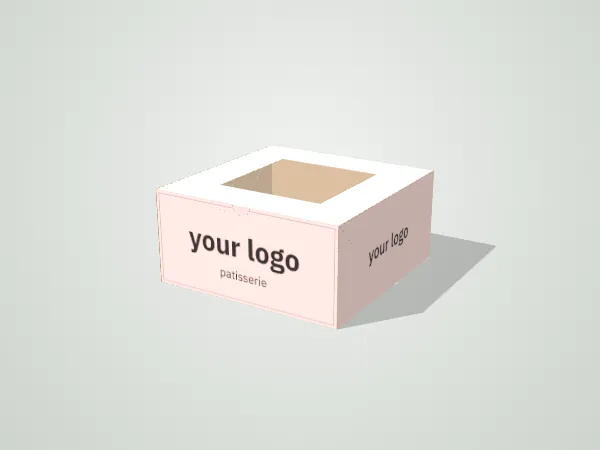
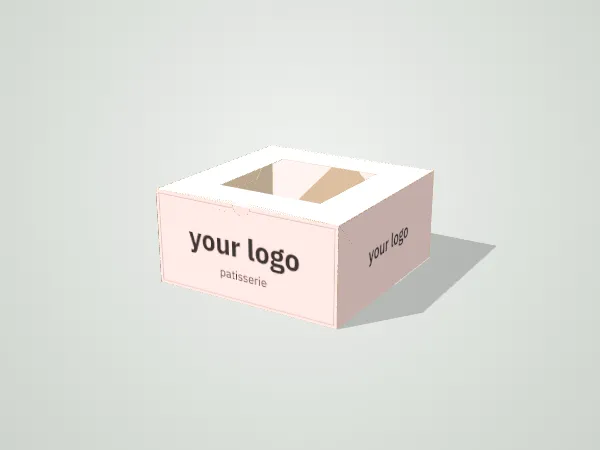
Bakery boxes: five closures — tuck, side-lock, tongue lock, front-opening hood with tab-and-slit corners, webbed gusset corners

Changed region(s): [[0.45, 0.3422, 0.57, 0.4667], [0.6, 0.3733, 0.63, 0.4044]]

diff --git a/index.html b/index.html
@@ -571,10 +571,15 @@ html.locked body>*:not(#auth):not(script){visibility:hidden}
         </div>
       </div>
       <div data-for="bakery" class="sub" style="padding-left:0">
-        <label class="f">Opening<select id="bkStyle"><option value="tuck">Lid with a tuck, fixed front wall</option><option value="front">Lid + front wall open together</option></select></label>
+        <label class="f">Closure / lock<select id="bkLock">
+          <option value="tuck">Tuck lid + thumb notch</option>
+          <option value="side">Side-lock: lid flaps lock into wall slits</option>
+          <option value="tongue">Tongue lock: front flap into a slot</option>
+          <option value="hood">Front-opening hood, tab-and-slit corners</option>
+          <option value="gusset">Webbed (gusset) corners + tuck lid</option></select></label>
         <label class="chk"><input id="bkWin" type="checkbox"> Window in the lid</label>
         <label class="f">Window margin from the lid edges, mm<input id="bkWm" type="number" min="8" max="150" step="1"></label>
-        <p class="note">One piece, no glue needed: the corner ears fold inside the side walls, the lid tuck slides behind the front wall (thumb notch), the lid side flaps tuck inside. Use food-safe board; for a window, glue clear film behind it.</p>
+        <p class="note" id="bkNote"></p>
       </div>
       <div data-for="mailer" class="sub" style="padding-left:0">
         <p class="note">Double side walls, dust ears and locking tabs, no glue. Usually made from E-flute corrugated. Keep the height below the width.</p>
@@ -851,17 +856,17 @@ const TPL = [
   {id:'lidbase',type:'lidbase', cat:'box', name:'Lid and base',          set:{}},
   {id:'mailer',type:'mailer', cat:'box', name:'Mailer box', set:{}},
   {id:'drawer',type:'drawer', cat:'box', name:'Drawer box with sleeve', set:{dbl:true}},
-  {id:'bk_cake',  type:'bakery', cat:'box', name:'Cake box',                 set:{L:200, W:200, H:110, window:false, bkWm:22, bg:'#bcd8e2', ink:'#ffffff', title:'YOUR LOGO', sub:'Cake box'}},
-  {id:'bk_cakew', type:'bakery', cat:'box', name:'Cake box with window',     set:{L:250, W:250, H:120, window:true,  bkWm:55, bg:'#f3d6d3', ink:'#2b2320', title:'your logo', sub:'patisserie'}},
-  {id:'bk_cup6',  type:'bakery', cat:'box', name:'Cupcake box 6, window',    set:{L:250, W:170, H:80,  window:true,  bkWm:38, bg:'#f4cfcf', ink:'#1b1b1b', title:'your logo', sub:'food cake'}},
-  {id:'bk_cup9',  type:'bakery', cat:'box', name:'Cupcake box 9',            set:{L:250, W:250, H:85,  window:false, bkWm:22, bg:'#bcd8e2', ink:'#ffffff', title:'YOUR LOGO', sub:'Cake box'}},
-  {id:'bk_pastry',type:'bakery', cat:'box', name:'Pastry box with window',   set:{L:180, W:120, H:60,  window:true,  bkWm:28, bg:'#f6efe2', ink:'#6b4a2b', title:'BAKERY', sub:'fresh every morning'}},
-  {id:'bk_front', type:'bakery', cat:'box', name:'Front-opening cake box',   set:{L:180, W:180, H:130, bkStyle:'front', window:false, bkWm:22, bg:'#f6f0e3', ink:'#1d1d1b', showText:false, title:'cake box', sub:''},
+  {id:'bk_cake',  type:'bakery', cat:'box', name:'Cake box',                 set:{L:200, W:200, H:110, bkLock:'tuck', window:false, bkWm:22, bg:'#bcd8e2', ink:'#ffffff', title:'YOUR LOGO', sub:'Cake box'}},
+  {id:'bk_cakew', type:'bakery', cat:'box', name:'Cake box with window',     set:{L:250, W:250, H:120, bkLock:'gusset', window:true,  bkWm:55, bg:'#f3d6d3', ink:'#2b2320', title:'your logo', sub:'patisserie'}},
+  {id:'bk_cup6',  type:'bakery', cat:'box', name:'Cupcake box 6, window',    set:{L:250, W:170, H:80,  bkLock:'side', window:true,  bkWm:38, bg:'#f4cfcf', ink:'#1b1b1b', title:'your logo', sub:'food cake'}},
+  {id:'bk_cup9',  type:'bakery', cat:'box', name:'Cupcake box 9',            set:{L:250, W:250, H:85,  bkLock:'tuck', window:false, bkWm:22, bg:'#bcd8e2', ink:'#ffffff', title:'YOUR LOGO', sub:'Cake box'}},
+  {id:'bk_pastry',type:'bakery', cat:'box', name:'Pastry box with window',   set:{L:180, W:120, H:60,  bkLock:'tongue', window:true,  bkWm:28, bg:'#f6efe2', ink:'#6b4a2b', title:'BAKERY', sub:'fresh every morning'}},
+  {id:'bk_front', type:'bakery', cat:'box', name:'Front-opening cake box',   set:{L:180, W:180, H:130, bkLock:'hood', window:false, bkWm:22, bg:'#f6f0e3', ink:'#1d1d1b', showText:false, title:'cake box', sub:''},
     els:[{kind:'icon', icon:'cake', face:'top', x:.5, y:.45, size:48}, {kind:'text', text:'cake box', font:'400|Montserrat', face:'front', x:.75, y:.78, size:13},
          {kind:'icon', icon:'cake', face:'front', x:.5, y:.42, size:48}, {kind:'icon', icon:'food', face:'back', x:.5, y:.85, size:9, color:'#000000'}]},
-  {id:'bk_heart', type:'bakery', cat:'box', name:'Bento cake box, heart',    set:{L:150, W:150, H:110, bkStyle:'front', window:false, bkWm:22, bg:'#f6f0e3', ink:'#1d1d1b', showText:false, title:'cake box', sub:''},
+  {id:'bk_heart', type:'bakery', cat:'box', name:'Bento cake box, heart',    set:{L:150, W:150, H:110, bkLock:'hood', window:false, bkWm:22, bg:'#f6f0e3', ink:'#1d1d1b', showText:false, title:'cake box', sub:''},
     els:[{kind:'text', text:'cake box', font:'400|Montserrat', face:'top', x:.5, y:.5, size:12}, {kind:'icon', icon:'heart', face:'front', x:.5, y:.45, size:40}]},
-  {id:'bk_macaron',type:'bakery',cat:'box', name:'Macaron / cookie box',     set:{L:200, W:90,  H:45,  window:true,  bkWm:20, bg:'#e7dcf3', ink:'#4a3366', title:'macarons', sub:'handmade · 12 pcs'}},
+  {id:'bk_macaron',type:'bakery',cat:'box', name:'Macaron / cookie box',     set:{L:200, W:90,  H:45,  bkLock:'tuck', window:true,  bkWm:20, bg:'#e7dcf3', ink:'#4a3366', title:'macarons', sub:'handmade · 12 pcs'}},
   {id:'l_wine',  type:'label', cat:'label', name:'Wine bottle label',  set:{...LBL_BASE, vessel:'wine', L:90, W:75, H:100, lblY:55, cornerR:0}},
   {id:'l_beer',  type:'label', cat:'label', name:'Beer bottle wrap label', set:{...LBL_BASE, vessel:'beer', wrap:true, W:60, H:75, lblY:24}},
   {id:'l_jar',   type:'label', cat:'label', name:'Jar wrap label',     set:{...LBL_BASE, vessel:'jar', wrap:true, W:80, H:60, lblY:12}},
@@ -905,11 +910,11 @@ const TPL_DESC = {
   lidbase:'Two parts: base and lid. Gift packaging.',
   mailer:'Self-locking with a hinged lid, no glue. For shipping and subscriptions.',
   bk_cake:'One-piece cake box: hinged lid with a tuck, thumb notch, corner ears. Food-safe board.',
-  bk_cakew:'Cake box with a window in the lid — glue a clear film behind it.',
-  bk_cup6:'For 6 cupcakes or pastries, window in the lid. Add an insert with holes inside.',
+  bk_cakew:'Webbed corners — no gaps, cream stays in. Window in the lid with clear film.',
+  bk_cup6:'For 6 cupcakes, window in the lid. Side-lock: the lid stays shut in delivery.',
   bk_cup9:'Square box for 9 cupcakes with a hinged tuck lid.',
-  bk_pastry:'Small box for 2–4 pastries or a slice of cake, with a window.',
-  bk_front:'The lid and the whole front wall swing up — the cake slides in from the front, nothing to lift over. Line-art print.',
+  bk_pastry:'2–4 pastries, window. Tongue lock on the front — tamper-evident for takeaway.',
+  bk_front:'Hood lid (top, front and sides) swings up — the cake slides in from the front. No glue: tab-and-slit corners, front lip with wings.',
   bk_heart:'Small front-opening box for a bento cake or a slice, with a heart.',
   bk_macaron:'Long low box for macarons or cookies, with a window.',
   drawer:'A tray slides out of a sleeve, like a matchbox.',
@@ -974,7 +979,7 @@ const VPRESETS = {
   ptube:[['Ø 50',50],['Ø 75',75],['Ø 100',100]],
 };
 const DEFAULTS = { type:'tube', tpl:'rte', L:70, W:70, H:110, ...TUBE_BASE, tuck:15, glue:14, dust:0,
-  winW:40, winH:50, winY:55, bkWm:22, bkStyle:'tuck', hangH:30, tab:15, lidH:30, gap:2, pull:40, dbl:false, lidOpen:0, hdr:0,
+  winW:40, winH:50, winY:55, bkWm:22, bkStyle:'tuck', bkLock:'tuck', hangH:30, tab:15, lidH:30, gap:2, pull:40, dbl:false, lidOpen:0, hdr:0,
   ...LBL_BASE, ...CARD_BASE, cupKind:'cup', cupLid:false, ...CUP_BASE, base:'', tplOrig:'',
   bg:'#2f5d50', ink:'#f3efe4', showText:true, title:'FOREST TEA', sub:'blend No.4 · 100 g',
   inside:'kraft', insideBg:'#f4efe6', finish:'matte', showLines:false, els:[], pid:null, pname:'',
@@ -991,9 +996,9 @@ const FACE_NAMES = {drawer:'Drawer base', pull:'Drawer end', front:'Front', back
 const NUM = ['bkWm','gradAng','patScale','cornerR','vents','ventD','tearY','tearW','thick','sheetW','sheetH','grip','impGap','qty','L','W','H','tuck','glue','dust','winW','winH','winY','hangH','tab','lidH','gap','pull','lidOpen','lInt','lAng','shadow','hdr','overlap','lblY','holeD','vBody','vNeck','cupOv','cupRim','cupBot','tagC','envF'];
 const ALIAS = {tab2:'tab', tab3:'tab', dgap:'gap', dbl2:'dbl', holeD2:'holeD', bkWin:'window'};
 const DIM_LABELS = {pouch:['Width','Gusset depth','Height'], label:['Label width','Container Ø','Label height'], cup:['Rim Ø (top)','Base Ø','Height'], card:['Width (folded)',null,'Height']};
-const SEL = ['bkStyle','topClose','topLid','botClose','botLid','bg','ink','title','sub','inside','insideBg','finish','light','scBgColor','mat','dimMode','unit','bleed','safe','method','sides','sheetFmt','white','grain','bgMode','bg2','pattern','vessel','lshape','place','vglass','vcap','vfill','cupKind','fold'];
+const SEL = ['bkLock','topClose','topLid','botClose','botLid','bg','ink','title','sub','inside','insideBg','finish','light','scBgColor','mat','dimMode','unit','bleed','safe','method','sides','sheetFmt','white','grain','bgMode','bg2','pattern','vessel','lshape','place','vglass','vcap','vfill','cupKind','fold'];
 const CHK = ['notch','window','hang','showText','showLines','dbl','tear','wrap','cupLid'];
-const STRUCT = ['bkStyle','bkWm','type','tpl','L','W','H','mat','thick','dimMode','cornerR','vents','ventD','tear','tearY','tearW',...Object.keys(TUBE_BASE),'tuck','glue','dust','winW','winH','winY','hangH','tab','lidH','gap','pull','dbl','hdr',...Object.keys(LBL_BASE),...Object.keys(CARD_BASE),'cupKind','cupLid',...Object.keys(CUP_BASE)];
+const STRUCT = ['bkLock','bkStyle','bkWm','type','tpl','L','W','H','mat','thick','dimMode','cornerR','vents','ventD','tear','tearY','tearW',...Object.keys(TUBE_BASE),'tuck','glue','dust','winW','winH','winY','hangH','tab','lidH','gap','pull','dbl','hdr',...Object.keys(LBL_BASE),...Object.keys(CARD_BASE),'cupKind','cupLid',...Object.keys(CUP_BASE)];
 
 const store = {
   get(k,d){ try { const v = localStorage.getItem(k); return v ? JSON.parse(v) : d; } catch { return d; } },
@@ -1167,52 +1172,88 @@ function buildLidBase(P,B){
   B.N.find(n=>n.id==='lbase').flat = {p:[-L/2-Ll/2 - (L+2*H)/2 - (Ll+2*Hl)/2 - 20, Hl+.6, -W/2+Wl/2], q:Q_LID};
   return {};
 }
-// bakery / cake box: one piece, single walls with corner ears, thumb notch on the front wall,
-// hinged lid with a rounded tuck and side flaps that tuck inside, optional window in the lid
+// bakery / cake box, one piece, five closures (P.bkLock):
+//  tuck   — corner ears inside the sides, lid tuck behind the front wall, thumb notch (most common, cheapest)
+//  side   — as tuck, but the lid side flaps end in a tongue that locks into a slit in each side wall (stays shut in delivery)
+//  tongue — lid front flap goes OUTSIDE the front wall, its tongue pushes into a slot (tamper-evident, takeaway)
+//  hood   — front-opening: lid = top + front + sides, base corners tab-and-slit (tall cakes slide in) → buildBakeryFront
+//  gusset — webbed corners (no gaps — cream and crumbs stay in, pops up from flat), tuck lid
 function buildBakery(P,B){
-  if (P.bkStyle==='front') return buildBakeryFront(P,B);
-  const L=P.L, W=P.W, H=Math.min(P.H, W*1.2);
-  const e = Math.min(W*.42, Math.max(H*.85, 20));                 // corner ears on the front/back walls, glued or tucked inside the sides
+  const lock = P.bkLock || (P.bkStyle==='front' ? 'hood' : 'tuck');
+  if (lock==='hood') return buildBakeryFront(P,B);
+  const L=P.L, W=P.W, H=Math.min(P.H, W*1.2), slitV = (xc,yc,len) => [[xc-.6,yc-len/2],[xc+.6,yc-len/2],[xc+.6,yc+len/2],[xc-.6,yc+len/2]], slitH = (xc,yc,len) => [[xc-len/2,yc-.6],[xc+len/2,yc-.6],[xc+len/2,yc+.6],[xc-len/2,yc+.6]];
+  const e = Math.min(W*.42, Math.max(H*.85, 20)), tp = Math.min(6, H*.25), g = lock==='tongue' ? 1.5 : 0;
+  let d = clamp(H-6, 8, 40); const stw = clamp(W*.3, 10, 40), stl = 7;
+  if (lock==='side') d = clamp(Math.min(d, H - stl - 8), 6, 40);
+  const fh = clamp(H*.4, 15, 40), ttw = clamp(L*.25, 15, 50), ttl = 10;
   B.add('base',null,[0,0],null,0,null,rect(0,0,L,W),{final:{p:[0,0,0],q:Q_UP}});
-  const nr = Math.min(12, L*.08, H*.3), front = [[0,0],[0,-H],[L/2-nr,-H], ...arc(L/2,-H,nr,PI,0,16).slice(1,-1), [L/2+nr,-H],[L,-H],[L,0]];
-  B.add('front','base',[0,0],'x',90*DEG,[0,.25],front);
-  B.add('earFL','front',[0,0],'y',-92*DEG,[.2,.38],sideTab(0,0,-H,-e,Math.min(6,H*.25)));
-  B.add('earFR','front',[L,0],'y',92*DEG,[.2,.38],sideTab(L,0,-H,e,Math.min(6,H*.25)));
+  const nr = Math.min(12, L*.08, H*.3), notch = lock!=='tongue';
+  const front = notch ? [[0,0],[0,-H],[L/2-nr,-H], ...arc(L/2,-H,nr,PI,0,16).slice(1,-1), [L/2+nr,-H],[L,-H],[L,0]] : rect(0,-H,L,0);
+  B.add('front','base',[0,0],'x',90*DEG,[0,.25],front,{holes: lock==='tongue' ? [slitH(L/2, -H+fh+.8, ttw+2)] : []});
   B.add('back','base',[0,W],'x',-90*DEG,[0,.25],rect(0,W,L,W+H));
-  B.add('earBL','back',[0,W],'y',-92*DEG,[.2,.38],sideTab(0,W,W+H,-e,Math.min(6,H*.25)));
-  B.add('earBR','back',[L,W],'y',92*DEG,[.2,.38],sideTab(L,W,W+H,e,Math.min(6,H*.25)));
-  B.add('sideL','base',[0,0],'y',-90*DEG,[.3,.5],rect(-H,0,0,W));
-  B.add('sideR','base',[L,0],'y',90*DEG,[.3,.5],rect(L,0,L+H,W));
-  // lid: hinged on the back wall, rounded tuck behind the front wall, side flaps inside the side walls
-  const y1 = W+H, y2 = 2*W+H, d = clamp(H-6, 8, 40), tk = clamp(H*.45, 12, 35), m = clamp(+P.bkWm||22, 8, Math.min(L,W)/2-8);
+  const sideHoles = x => lock==='side' ? [slitV(x, W/2, stw+2)] : [];
+  B.add('sideL','base',[0,0],'y',-90*DEG,[lock==='gusset'?0:.3, lock==='gusset'?.25:.5],rect(-H,0,0,W),{holes:sideHoles(-(H-d-1.2))});
+  B.add('sideR','base',[L,0],'y',90*DEG,[lock==='gusset'?0:.3, lock==='gusset'?.25:.5],rect(L,0,L+H,W),{holes:sideHoles(L+H-d-1.2)});
+  if (lock==='gusset'){
+    // webbed corner: one triangle on the end wall, one on the side wall, diagonal crease between them; folds flat inside the end wall
+    const st = [0,.25];
+    B.add('gFLa','front',[0,0],'y',-175*DEG,st,[[0,0],[0,-H],[-H,-H]]);   B.add('gFLb','sideL',[0,0],'x',92*DEG,st,[[0,0],[-H,-H],[-H,0]]);
+    B.add('gFRa','front',[L,0],'y',175*DEG,st,[[L,0],[L+H,-H],[L,-H]]);   B.add('gFRb','sideR',[L,0],'x',92*DEG,st,[[L,0],[L+H,0],[L+H,-H]]);
+    B.add('gBLa','back',[0,W],'y',-175*DEG,st,[[0,W],[-H,W+H],[0,W+H]]);  B.add('gBLb','sideL',[0,W],'x',-92*DEG,st,[[0,W],[-H,W],[-H,W+H]]);
+    B.add('gBRa','back',[L,W],'y',175*DEG,st,[[L,W],[L,W+H],[L+H,W+H]]); B.add('gBRb','sideR',[L,W],'x',-92*DEG,st,[[L,W],[L+H,W+H],[L+H,W]]);
+  } else {
+    B.add('earFL','front',[0,0],'y',-92*DEG,[.2,.38],sideTab(0,0,-H,-e,tp));
+    B.add('earFR','front',[L,0],'y',92*DEG,[.2,.38],sideTab(L,0,-H,e,tp));
+    B.add('earBL','back',[0,W],'y',-92*DEG,[.2,.38],sideTab(0,W,W+H,-e,tp));
+    B.add('earBR','back',[L,W],'y',92*DEG,[.2,.38],sideTab(L,W,W+H,e,tp));
+  }
+  // lid
+  const y1 = W+H, y2 = 2*W+H+g, tk = clamp(H*.45, 12, 35), m = clamp(+P.bkWm||22, 8, Math.min(L,W)/2-8);
   const win = P.window ? [[[m,y1+m],[L-m,y1+m],[L-m,y2-m],[m,y2-m]]] : [];
   B.add('lid','back',[0,y1],'x',-90*DEG,[.72,.97],rect(0,y1,L,y2),{holes:win});
-  B.add('lidTuck','lid',[0,y2],'x',-92*DEG,[.66,.84],tuckPoly(0,y2,L,tk,1));
-  B.add('lidDL','lid',[0,y1],'y',-92*DEG,[.66,.82],sideTab(0,y1+1.5,y2-1.5,-d,Math.min(d,W*.2)));
-  B.add('lidDR','lid',[L,y1],'y',92*DEG,[.66,.82],sideTab(L,y1+1.5,y2-1.5,d,Math.min(d,W*.2)));
-  B.face('bottom',[0,0,L,W]); B.face('front',[0,-H,L,0],PI); B.face('back',[0,W,L,W+H]);
+  if (lock==='tongue'){
+    const a = L/2-ttw/2, b = L/2+ttw/2, y3 = y2+fh;
+    B.add('lidFlap','lid',[0,y2],'x',-90*DEG,[.66,.84],[[0,y2],[L,y2],[L,y3],[b,y3],[b-2,y3+ttl],[a+2,y3+ttl],[a,y3],[0,y3]]);
+  } else B.add('lidTuck','lid',[0,y2],'x',-92*DEG,[.66,.84],tuckPoly(0,y2,L,tk,1));
+  const lf = (hx, dx) => lock==='side' ? earLock(hx, y1+1.5, y2-1.5, dx, Math.min(d, W*.2), stw, stl) : sideTab(hx, y1+1.5, y2-1.5, dx, Math.min(d, W*.2));
+  B.add('lidDL','lid',[0,y1],'y',-92*DEG,[.66,.82],lf(0,-d));
+  B.add('lidDR','lid',[L,y1],'y',92*DEG,[.66,.82],lf(L,d));
+  B.face('bottom',[0,0,L,W]); B.face('front',[0,lock==='tongue' ? -H+fh+3 : -H,L,0],PI); B.face('back',[0,W,L,W+H]);   // the tongue flap covers the top of the front
   B.face('side1',[-H,0,0,W],-PI/2); B.face('side2',[L,0,L+H,W],PI/2); B.face('top',[0,y1,L,y2],PI);
+  if (lock==='tongue') B.face('flap',[0,y2,L,y2+fh],PI);
   return {};
 }
-// front-opening cake box: base = bottom + back + sides + low front lip; the lid (top + full front wall with a thumb notch)
-// swings up off the back wall, so a cake slides in from the front
+// front-opening cake box (hood lid): base = bottom + back + sides + a front lip with wings; corners lock without glue —
+// the back-wall ears end in a tongue that pushes through a slit in the side wall. The lid is a hood: top + front wall
+// (thumb notch) + full side walls that slide down over the base sides; its front ears tuck inside the hood sides.
+function earLock(hx,ya,yb,dx,tp,tw,tl){
+  const s = Math.sign(dx), ym = (ya+yb)/2, x = hx+dx;
+  return [[hx,ya],[x,ya+tp],[x,ym-tw/2],[x+s*tl,ym-tw/2+2],[x+s*tl,ym+tw/2-2],[x,ym+tw/2],[x,yb-tp],[hx,yb]];
+}
 function buildBakeryFront(P,B){
-  const L=P.L, W=P.W, H=P.H, lp = clamp(H*.18, 8, 22), e = Math.min(W*.42, Math.max(H*.6, 20)), tp = Math.min(6, H*.2);
+  const L=P.L, W=P.W, H=P.H, g=1.5, lp = clamp(H*.28, 12, 40), tp = Math.min(6, H*.2);
+  const e = Math.min(W*.4, Math.max(H*.5, 22)), tw = clamp(H*.3, 8, 22), tl = 7, el = Math.min(W*.3, Math.max(lp*1.2, 18));
+  const slit = (xc, yc) => [[xc-tw/2,yc-.6],[xc+tw/2,yc-.6],[xc+tw/2,yc+.6],[xc-tw/2,yc+.6]];
   B.add('base',null,[0,0],null,0,null,rect(0,0,L,W),{final:{p:[0,0,0],q:Q_UP}});
-  B.add('lip','base',[0,0],'x',90*DEG,[0,.25],rect(0,-lp,L,0));
-  B.add('back','base',[0,W],'x',-90*DEG,[0,.25],rect(0,W,L,W+H));
-  B.add('earBL','back',[0,W],'y',-92*DEG,[.2,.38],sideTab(0,W,W+H,-e,tp));
-  B.add('earBR','back',[L,W],'y',92*DEG,[.2,.38],sideTab(L,W,W+H,e,tp));
-  B.add('sideL','base',[0,0],'y',-90*DEG,[.3,.5],rect(-H,0,0,W));
-  B.add('sideR','base',[L,0],'y',90*DEG,[.3,.5],rect(L,0,L+H,W));
-  const y1 = W+H, y2 = 2*W+H, y3 = y2+H, d = clamp(H*.55, 10, 45), nr = Math.min(12, L*.08, H*.25), m = clamp(+P.bkWm||22, 8, Math.min(L,W)/2-8);
-  const win = P.window ? [[[m,y1+m],[L-m,y1+m],[L-m,y2-m],[m,y2-m]]] : [];
-  B.add('lid','back',[0,y1],'x',-90*DEG,[.72,.97],rect(0,y1,L,y2),{holes:win});
-  B.add('lidDL','lid',[0,y1],'y',-92*DEG,[.6,.78],sideTab(0,y1+1.5,y2-1.5,-d,Math.min(d,W*.2)));
-  B.add('lidDR','lid',[L,y1],'y',92*DEG,[.6,.78],sideTab(L,y1+1.5,y2-1.5,d,Math.min(d,W*.2)));
-  B.add('lidFront','lid',[0,y2],'x',-90*DEG,[.6,.8],[[0,y2],[L,y2],[L,y3],[L/2+nr,y3], ...arc(L/2,y3,nr,0,-PI,16).slice(1,-1), [L/2-nr,y3],[0,y3]]);
+  B.add('lip','base',[0,0],'x',90*DEG,[.3,.45],rect(0,-lp,L,0));
+  B.add('lipL','lip',[0,0],'y',-92*DEG,[.18,.3],sideTab(0,0,-lp,-el,Math.min(5,lp*.3)));
+  B.add('lipR','lip',[L,0],'y',92*DEG,[.18,.3],sideTab(L,0,-lp,el,Math.min(5,lp*.3)));
+  B.add('back','base',[0,W],'x',-90*DEG,[0,.2],rect(0,W,L,W+H));
+  B.add('earBL','back',[0,W],'y',-92*DEG,[.12,.28],earLock(0,W,W+H,-e,tp,tw,tl));
+  B.add('earBR','back',[L,W],'y',92*DEG,[.12,.28],earLock(L,W,W+H,e,tp,tw,tl));
+  B.add('sideL','base',[0,0],'y',-90*DEG,[.28,.42],rect(-H,0,0,W),{holes:[slit(-H/2, W-e-1.2)]});
+  B.add('sideR','base',[L,0],'y',90*DEG,[.28,.42],rect(L,0,L+H,W),{holes:[slit(L+H/2, W-e-1.2)]});
+  // hood lid
+  const y1 = W+H, y2 = y1+W+g, y3 = y2+H, x0 = -g, x1 = L+g, nr = Math.min(12, L*.08, H*.25), m = clamp(+P.bkWm||22, 8, Math.min(L,W)/2-8);
+  const win = P.window ? [[[m,y1+m],[L-m,y1+m],[L-m,y2-m],[m,y2-m]]] : [], e2 = Math.min(W*.4, Math.max(H*.5, 22));
+  B.add('lid','back',[0,y1],'x',-90*DEG,[.8,.98],rect(x0,y1,x1,y2),{holes:win});
+  B.add('lidFront','lid',[x0,y2],'x',-90*DEG,[.48,.6],[[x0,y2],[x1,y2],[x1,y3],[L/2+nr,y3], ...arc(L/2,y3,nr,0,-PI,16).slice(1,-1), [L/2-nr,y3],[x0,y3]]);
+  B.add('lfL','lidFront',[x0,y2],'y',-92*DEG,[.6,.68],sideTab(x0,y2,y3,-e2,tp));
+  B.add('lfR','lidFront',[x1,y2],'y',92*DEG,[.6,.68],sideTab(x1,y2,y3,e2,tp));
+  B.add('lidL','lid',[x0,y1],'y',-90*DEG,[.68,.8],rect(x0-H,y1,x0,y2));
+  B.add('lidR','lid',[x1,y1],'y',90*DEG,[.68,.8],rect(x1,y1,x1+H,y2));
   B.face('bottom',[0,0,L,W]); B.face('back',[0,W,L,W+H]);
-  B.face('side1',[-H,0,0,W],-PI/2); B.face('side2',[L,0,L+H,W],PI/2); B.face('top',[0,y1,L,y2],PI); B.face('front',[0,y2,L,y3],PI);
+  B.face('side1',[x0-H,y1,x0,y2],PI/2); B.face('side2',[x1,y1,x1+H,y2],-PI/2); B.face('top',[x0,y1,x1,y2],PI); B.face('front',[x0,y2,x1,y3],PI);
   return {};
 }
 function buildMailer(P,B){
@@ -2649,7 +2690,14 @@ function bindPresets(){
     if (b.dataset.u !== undefined){ Object.assign(S, list[+b.dataset.u].v); done(); } });
 }
 // type-specific controls and notes in the Structure pane
+const BK_NOTES = {
+  tuck:'Classic: corner ears fold inside the side walls, the lid tuck slides behind the front wall, thumb notch to open. Cheapest, fastest to assemble.',
+  side:'The lid side flaps end in a tongue that clicks into a slit in each side wall — the lid stays shut in a delivery bag. Thumb notch on the front.',
+  tongue:'The lid front flap closes over the outside of the front wall and its tongue pushes into a slot. Holds firmly, easy to see if it was opened — takeaway.',
+  hood:'Lid, front wall and sides open together, so a tall cake slides in from the front. Base corners: ears with tongues locked in side-wall slits, front lip with wings. No glue.',
+  gusset:'Webbed corners: each corner is a folded web, no gaps — cream and crumbs stay in, the tray pops up from flat. Tuck lid.'};
 function syncTypeUI(){
+  if ($('bkNote')) $('bkNote').textContent = (BK_NOTES[S.bkLock] || BK_NOTES.tuck) + ' Food-safe board; for a window glue clear film behind it.';
   document.querySelectorAll('[data-size]').forEach(el => el.hidden = el.dataset.size !== S.type);
   if (S.type==='label'){ const nv = S.vessel==='none' || S.vessel==='ptube';
     $('vBodyWrap').hidden = nv; $('vNeckWrap').hidden = !NECK[S.vessel]; if (!nv) $('vBody').value = +vMap(S).hb.toFixed(1); }
